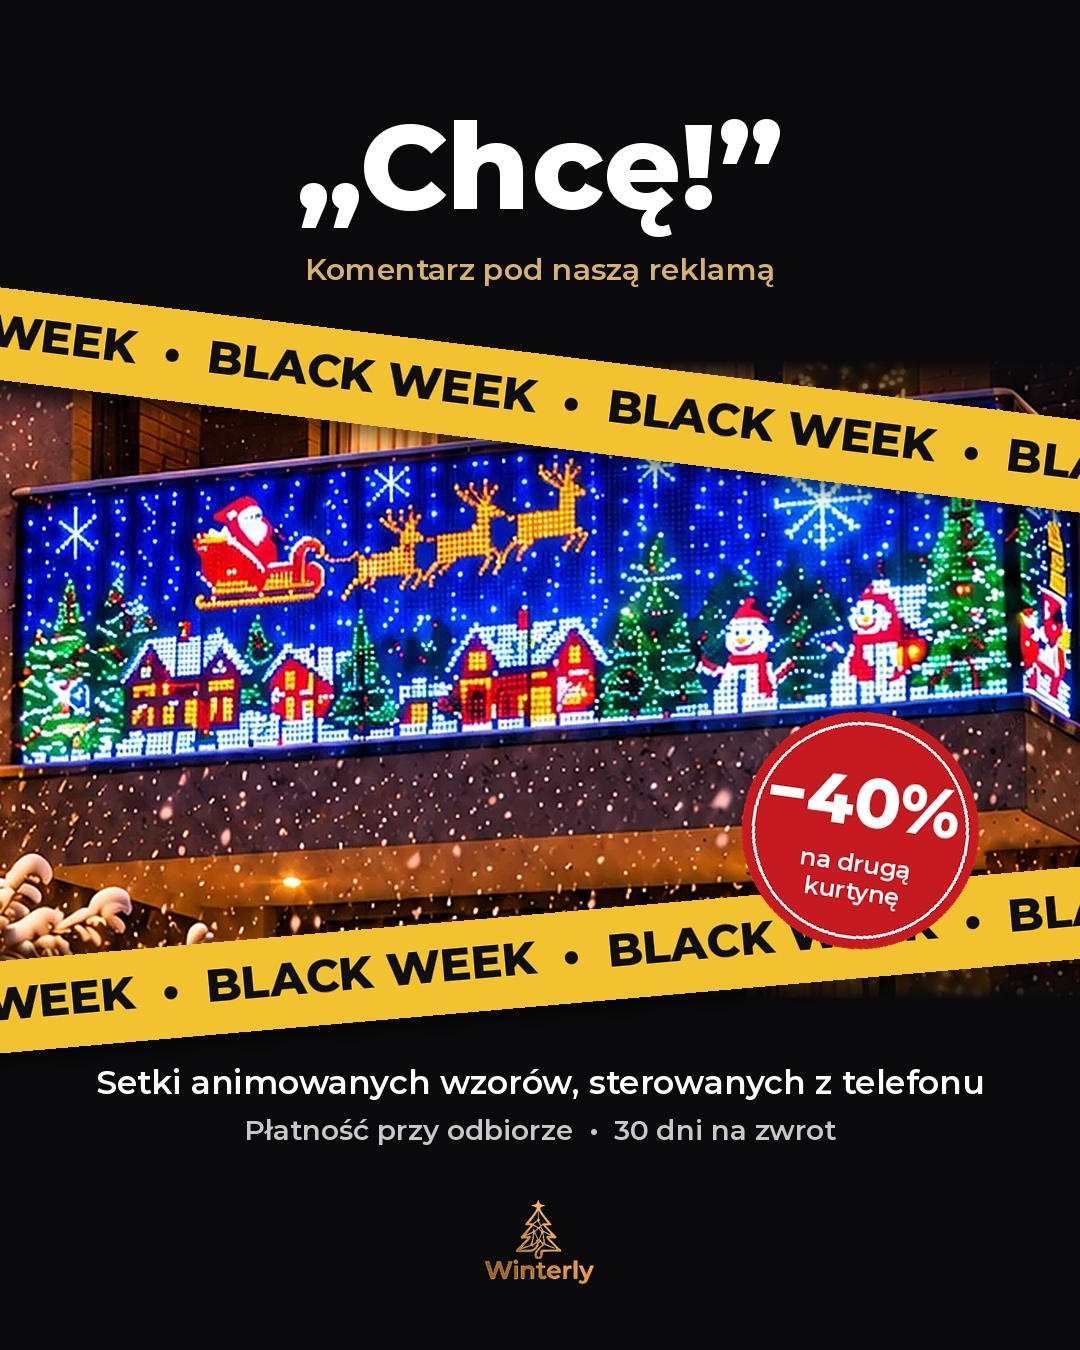
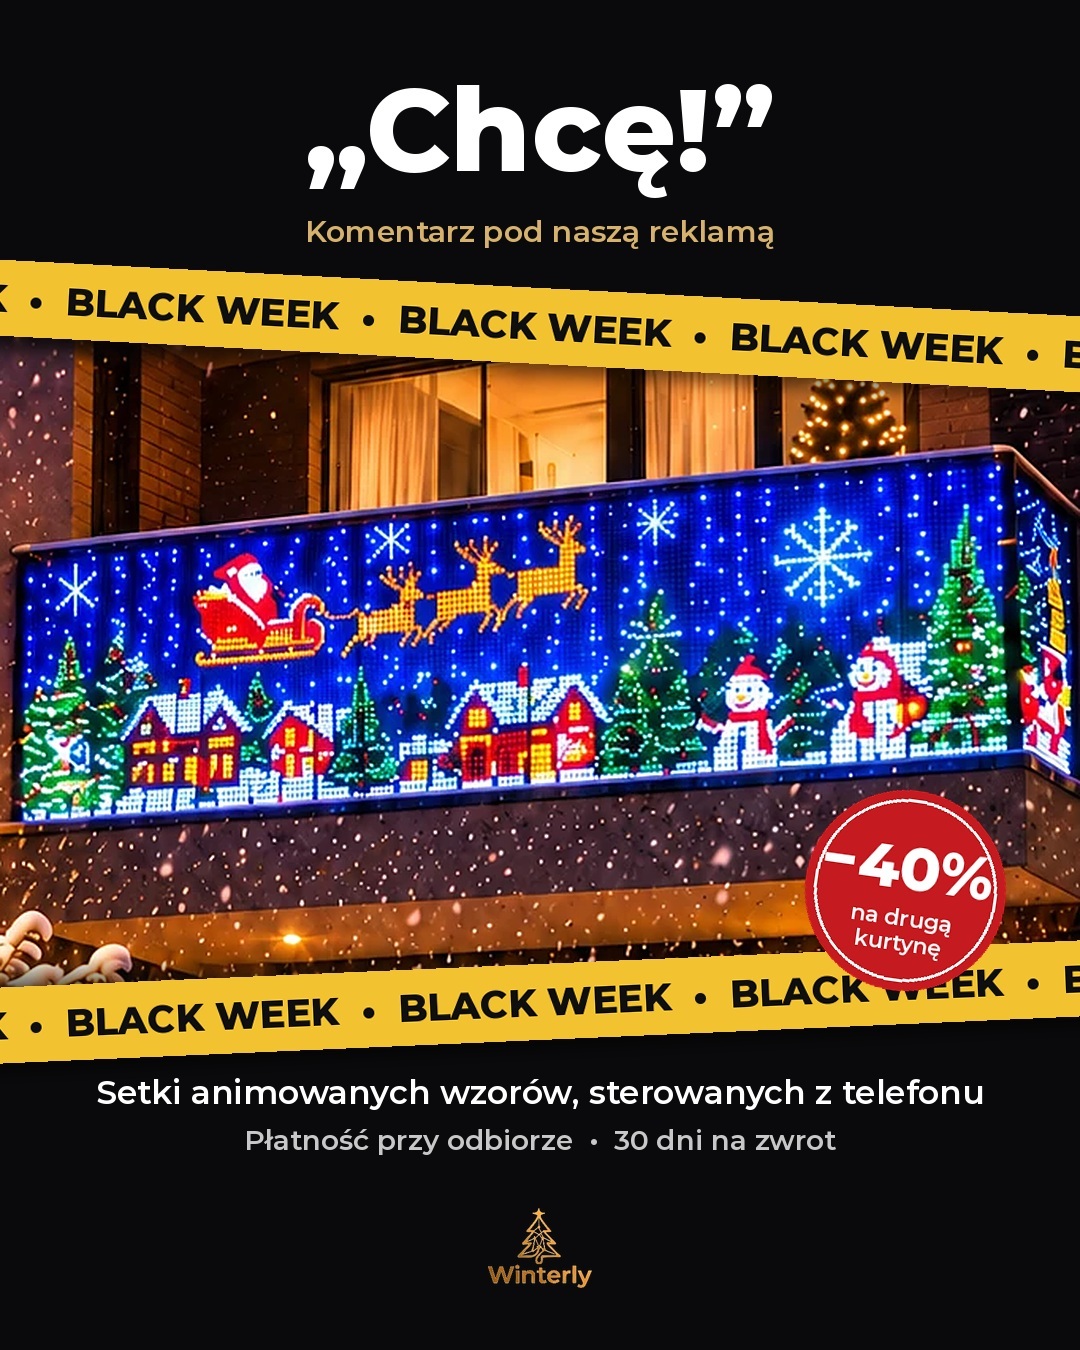
Grafika „Chcę!” z odsłoniętą kurtyną + grafika „Bałwan, który nie topnieje”
Claude-Session: https://claude.ai/code/session_01DeuvRZ8F7hfMieH2Xjfnm5

diff --git a/handoff/video-tools/winterly/grafiki_siatka_komentarz_strzalki.py b/handoff/video-tools/winterly/grafiki_siatka_komentarz_strzalki.py
@@ -64,37 +64,35 @@ d.line([(W/2-300,ly+40),(W/2-lg.width/2-24,ly+40)],fill=GOLD,width=2); d.line([(
 g.paste(lg,(int(W/2-lg.width/2),ly),lg)
 save(g,'winterly_bw_siatka_wzorow_4x5.jpg')
 
-# ---------- 2) KOMENTARZ + TAŚMA
+# ---------- 2) KOMENTARZ + TAŚMA (kurtyna odsłonięta)
 k=Image.new('RGB',(W,H),(10,10,12)); d=ImageDraw.Draw(k)
-ctext(d,92,'„Chcę!”',font('Montserrat-ExtraBold',120),(255,255,255))
-ctext(d,250,'Komentarz pod naszą reklamą',font('Montserrat-SemiBold',30),GOLD)
-photo=sharpen(cover(tpl.crop((418,282,1100,872)),W,640))
-py=360; k.paste(photo,(0,py))
-# fade photo edges into black
-fade=Image.new('L',(W,640),255); fd=ImageDraw.Draw(fade)
-for i in range(60): fd.line([(0,i),(W,i)],fill=int(255*i/60)); fd.line([(0,639-i),(W,639-i)],fill=int(255*i/60))
-k.paste(Image.new('RGB',(W,640),(10,10,12)),(0,py),ImageOps.invert(fade))
-def tape(img,y,ang,txt='BLACK WEEK  •  '):
-    f=font('Montserrat-ExtraBold',46); L=2200; T=Image.new('RGBA',(L,92),(242,194,48,255)); td=ImageDraw.Draw(T)
+ctext(d,58,'„Chcę!”',font('Montserrat-ExtraBold',116),(255,255,255))
+ctext(d,212,'Komentarz pod naszą reklamą',font('Montserrat-SemiBold',30),GOLD)
+PH=690; py=318
+photo=sharpen(cover(tpl.crop((418,282,1100,872)),W,PH,cy=0.2)); k.paste(photo,(0,py))
+fade=Image.new('L',(W,PH),255); fd=ImageDraw.Draw(fade)
+for i in range(50): fd.line([(0,i),(W,i)],fill=int(255*i/50)); fd.line([(0,PH-1-i),(W,PH-1-i)],fill=int(255*i/50))
+k.paste(Image.new('RGB',(W,PH),(10,10,12)),(0,py),ImageOps.invert(fade))
+def tape(img,y,ang,txt='BLACK WEEK  •  ',hgt=76,fs=38):
+    f=font('Montserrat-ExtraBold',fs); L=2200; T=Image.new('RGBA',(L,hgt),(242,194,48,255)); td=ImageDraw.Draw(T)
     x=-40
-    while x<L: td.text((x,14),txt,font=f,fill=(15,15,15)); x+=td.textlength(txt,font=f)
+    while x<L: td.text((x,(hgt-fs)//2-4),txt,font=f,fill=(15,15,15)); x+=td.textlength(txt,font=f)
     T=T.rotate(ang,expand=True,resample=Image.BICUBIC)
     sh=Image.new('RGBA',T.size,(0,0,0,0)); sh.putalpha(T.split()[3].point(lambda a:int(a*0.5))); sh=sh.filter(ImageFilter.GaussianBlur(8))
     img.paste(sh,((W-T.width)//2+4,y-T.height//2+10),sh); img.paste(T,((W-T.width)//2,y-T.height//2),T)
-tape(k,py+40,-7); tape(k,py+600,5)
-# red badge
-bx,by,R=860,py+470,118
+tape(k,py+8,-3); tape(k,py+PH-6,2.5)
+bx,by,R=905,py+PH-118,100
 bd=Image.new('RGBA',(2*R+40,2*R+40),(0,0,0,0)); dd=ImageDraw.Draw(bd)
-dd.ellipse([20,20,20+2*R,20+2*R],fill=RED); dd.ellipse([30,30,10+2*R,10+2*R],outline=(255,255,255),width=3)
-f1=font('Montserrat-ExtraBold',68); f2=font('Montserrat-SemiBold',24)
-w=dd.textlength('−40%',font=f1); dd.text((20+R-w/2,20+R-70),'−40%',font=f1,fill='white')
+dd.ellipse([20,20,20+2*R,20+2*R],fill=RED); dd.ellipse([29,29,11+2*R,11+2*R],outline=(255,255,255),width=3)
+f1=font('Montserrat-ExtraBold',60); f2=font('Montserrat-SemiBold',22)
+w=dd.textlength('−40%',font=f1); dd.text((20+R-w/2,20+R-60),'−40%',font=f1,fill='white')
 for j,t in enumerate(['na drugą','kurtynę']):
-    w=dd.textlength(t,font=f2); dd.text((20+R-w/2,20+R+18+j*28),t,font=f2,fill='white')
+    w=dd.textlength(t,font=f2); dd.text((20+R-w/2,20+R+14+j*25),t,font=f2,fill='white')
 bd=bd.rotate(-8,resample=Image.BICUBIC); k.paste(bd,(bx-R-20,by-R-20),bd)
 d=ImageDraw.Draw(k)
-ctext(d,1062,'Setki animowanych wzorów, sterowanych z telefonu',font('Montserrat-SemiBold',33),(255,255,255))
-ctext(d,1112,'Płatność przy odbiorze  •  30 dni na zwrot',font('Montserrat-SemiBold',28),(200,200,200))
-lg=logo(84); k.paste(lg,(int(W/2-lg.width/2),1200),lg)
+ctext(d,1072,'Setki animowanych wzorów, sterowanych z telefonu',font('Montserrat-SemiBold',33),(255,255,255))
+ctext(d,1122,'Płatność przy odbiorze  •  30 dni na zwrot',font('Montserrat-SemiBold',28),(200,200,200))
+lg=logo(80); k.paste(lg,(int(W/2-lg.width/2),1208),lg)
 save(k,'winterly_bw_komentarz_chce_4x5.jpg')
 
 # ---------- 3) ZDJĘCIE Z OPISAMI (strzałki)
@@ -150,3 +148,28 @@ for j,t in enumerate(['na drugą','kurtynę']):
 a.paste(bd,(905-R-20,1060-R-20),bd)
 lg=logo(70); a.paste(lg,(60,1220),lg)
 save(a,'winterly_bw_opisy_strzalki_4x5.jpg')
+
+# ---------- 4) BAŁWAN, KTÓRY NIE TOPNIEJE (nasze ujęcie)
+b=Image.open(LA+'balwan_3.0.png').convert('RGB')
+b=sharpen(b.crop((0,400,1080,1750)))
+grad=Image.new('L',(1,H))
+for y in range(H):
+    v=0.92*max(0,min(1,(y-H*0.64)/(H*0.26))) if y>H*0.64 else 0.8*max(0,(H*0.24-y)/(H*0.24))
+    grad.putpixel((0,y),int(255*v))
+b.paste(Image.new('RGB',(W,H),(5,8,14)),(0,0),grad.resize((W,H)))
+d=ImageDraw.Draw(b)
+ctext(d,44,'Bałwan, który',font('Montserrat-ExtraBold',84),(255,255,255),shadow=(0,0,0))
+ctext(d,138,'nie topnieje.',font('Montserrat-ExtraBold',84),(255,255,255),shadow=(0,0,0))
+ctext(d,250,'Kurtyna LED Winterly – setki wzorów z telefonu',font('Montserrat-SemiBold',31),(235,235,235),shadow=(0,0,0))
+d.text((60,972),'BLACK WEEK',font=font('Montserrat-ExtraBold',74),fill=(255,255,255))
+d.text((62,1068),'Druga kurtyna −40%',font=font('Montserrat-Bold',38),fill=(242,194,48))
+d.text((62,1122),'Płatność przy odbiorze  •  30 dni na zwrot',font=font('Montserrat-SemiBold',28),fill=(225,225,225))
+R=118; bd=Image.new('RGBA',(2*R+40,2*R+40),(0,0,0,0)); dd=ImageDraw.Draw(bd)
+dd.ellipse([20,20,20+2*R,20+2*R],fill=RED); dd.ellipse([30,30,10+2*R,10+2*R],outline=(255,255,255),width=3)
+f1=font('Montserrat-ExtraBold',68); f2=font('Montserrat-SemiBold',24)
+w=dd.textlength('−40%',font=f1); dd.text((20+R-w/2,20+R-66),'−40%',font=f1,fill='white')
+for j,t in enumerate(['na drugą','kurtynę']):
+    w=dd.textlength(t,font=f2); dd.text((20+R-w/2,20+R+18+j*28),t,font=f2,fill='white')
+bd=bd.rotate(-8,resample=Image.BICUBIC); b.paste(bd,(905-R-20,1060-R-20),bd)
+lg=logo(70); b.paste(lg,(60,1220),lg)
+save(b,'winterly_bw_balwan_4x5.jpg')
